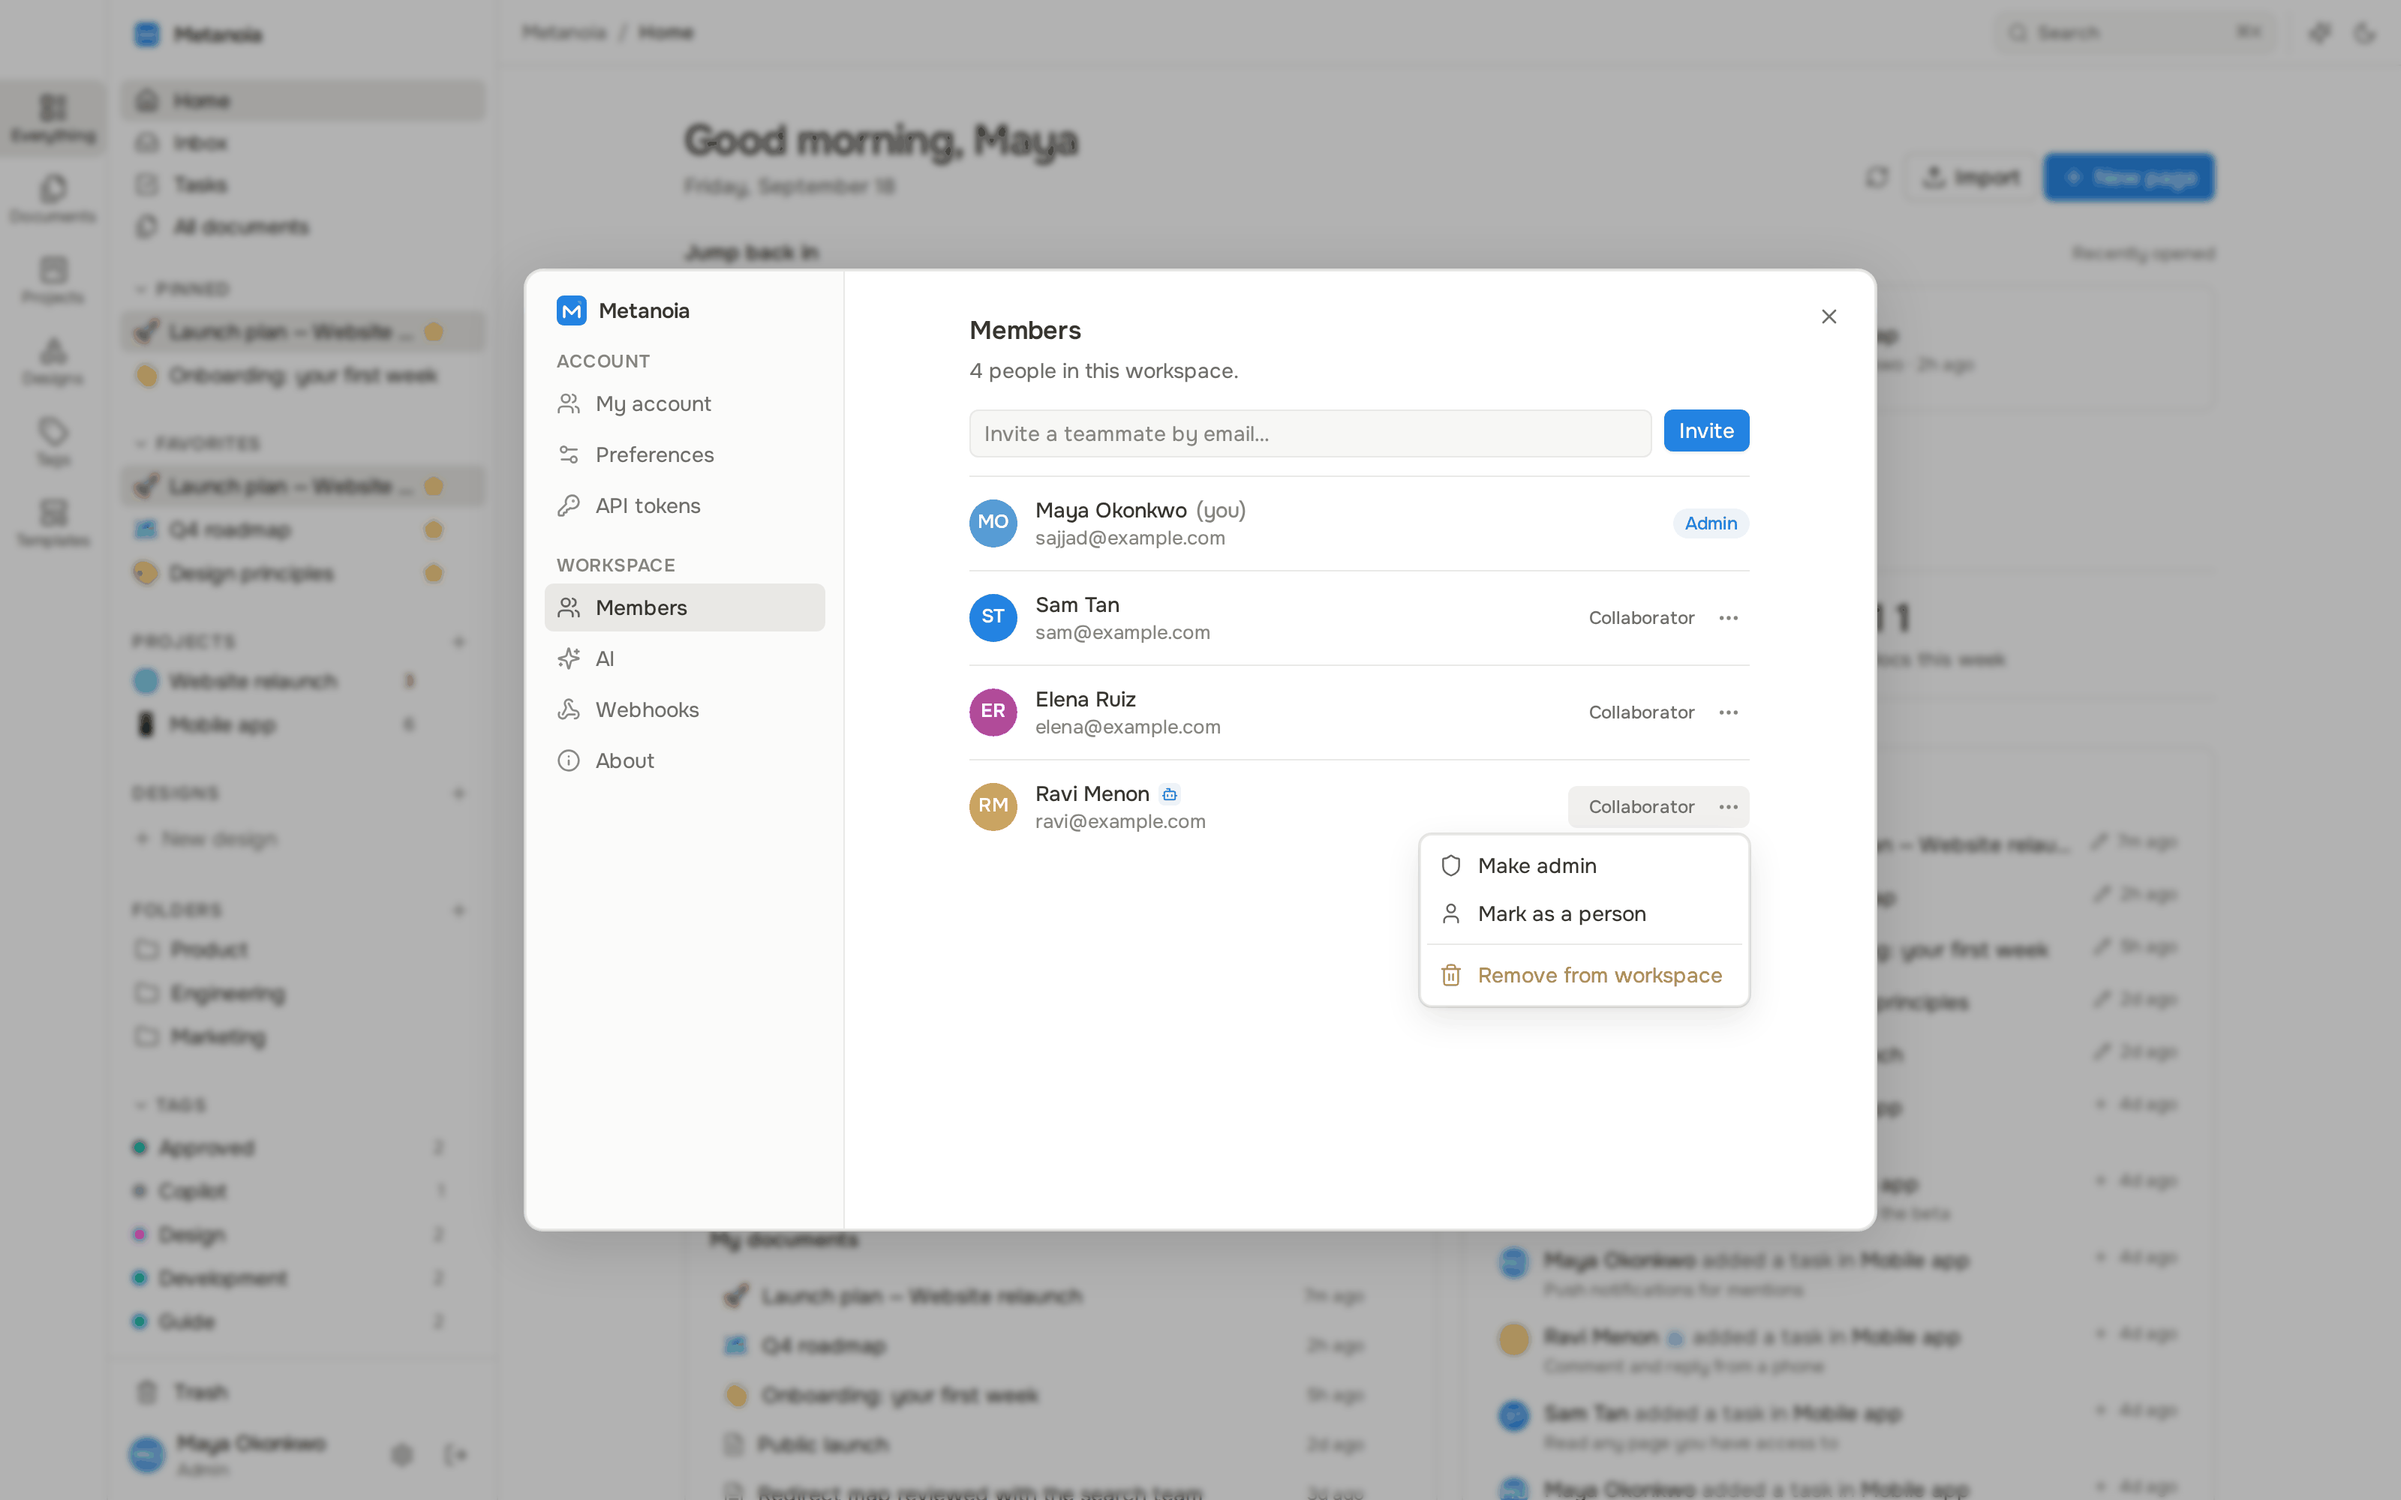
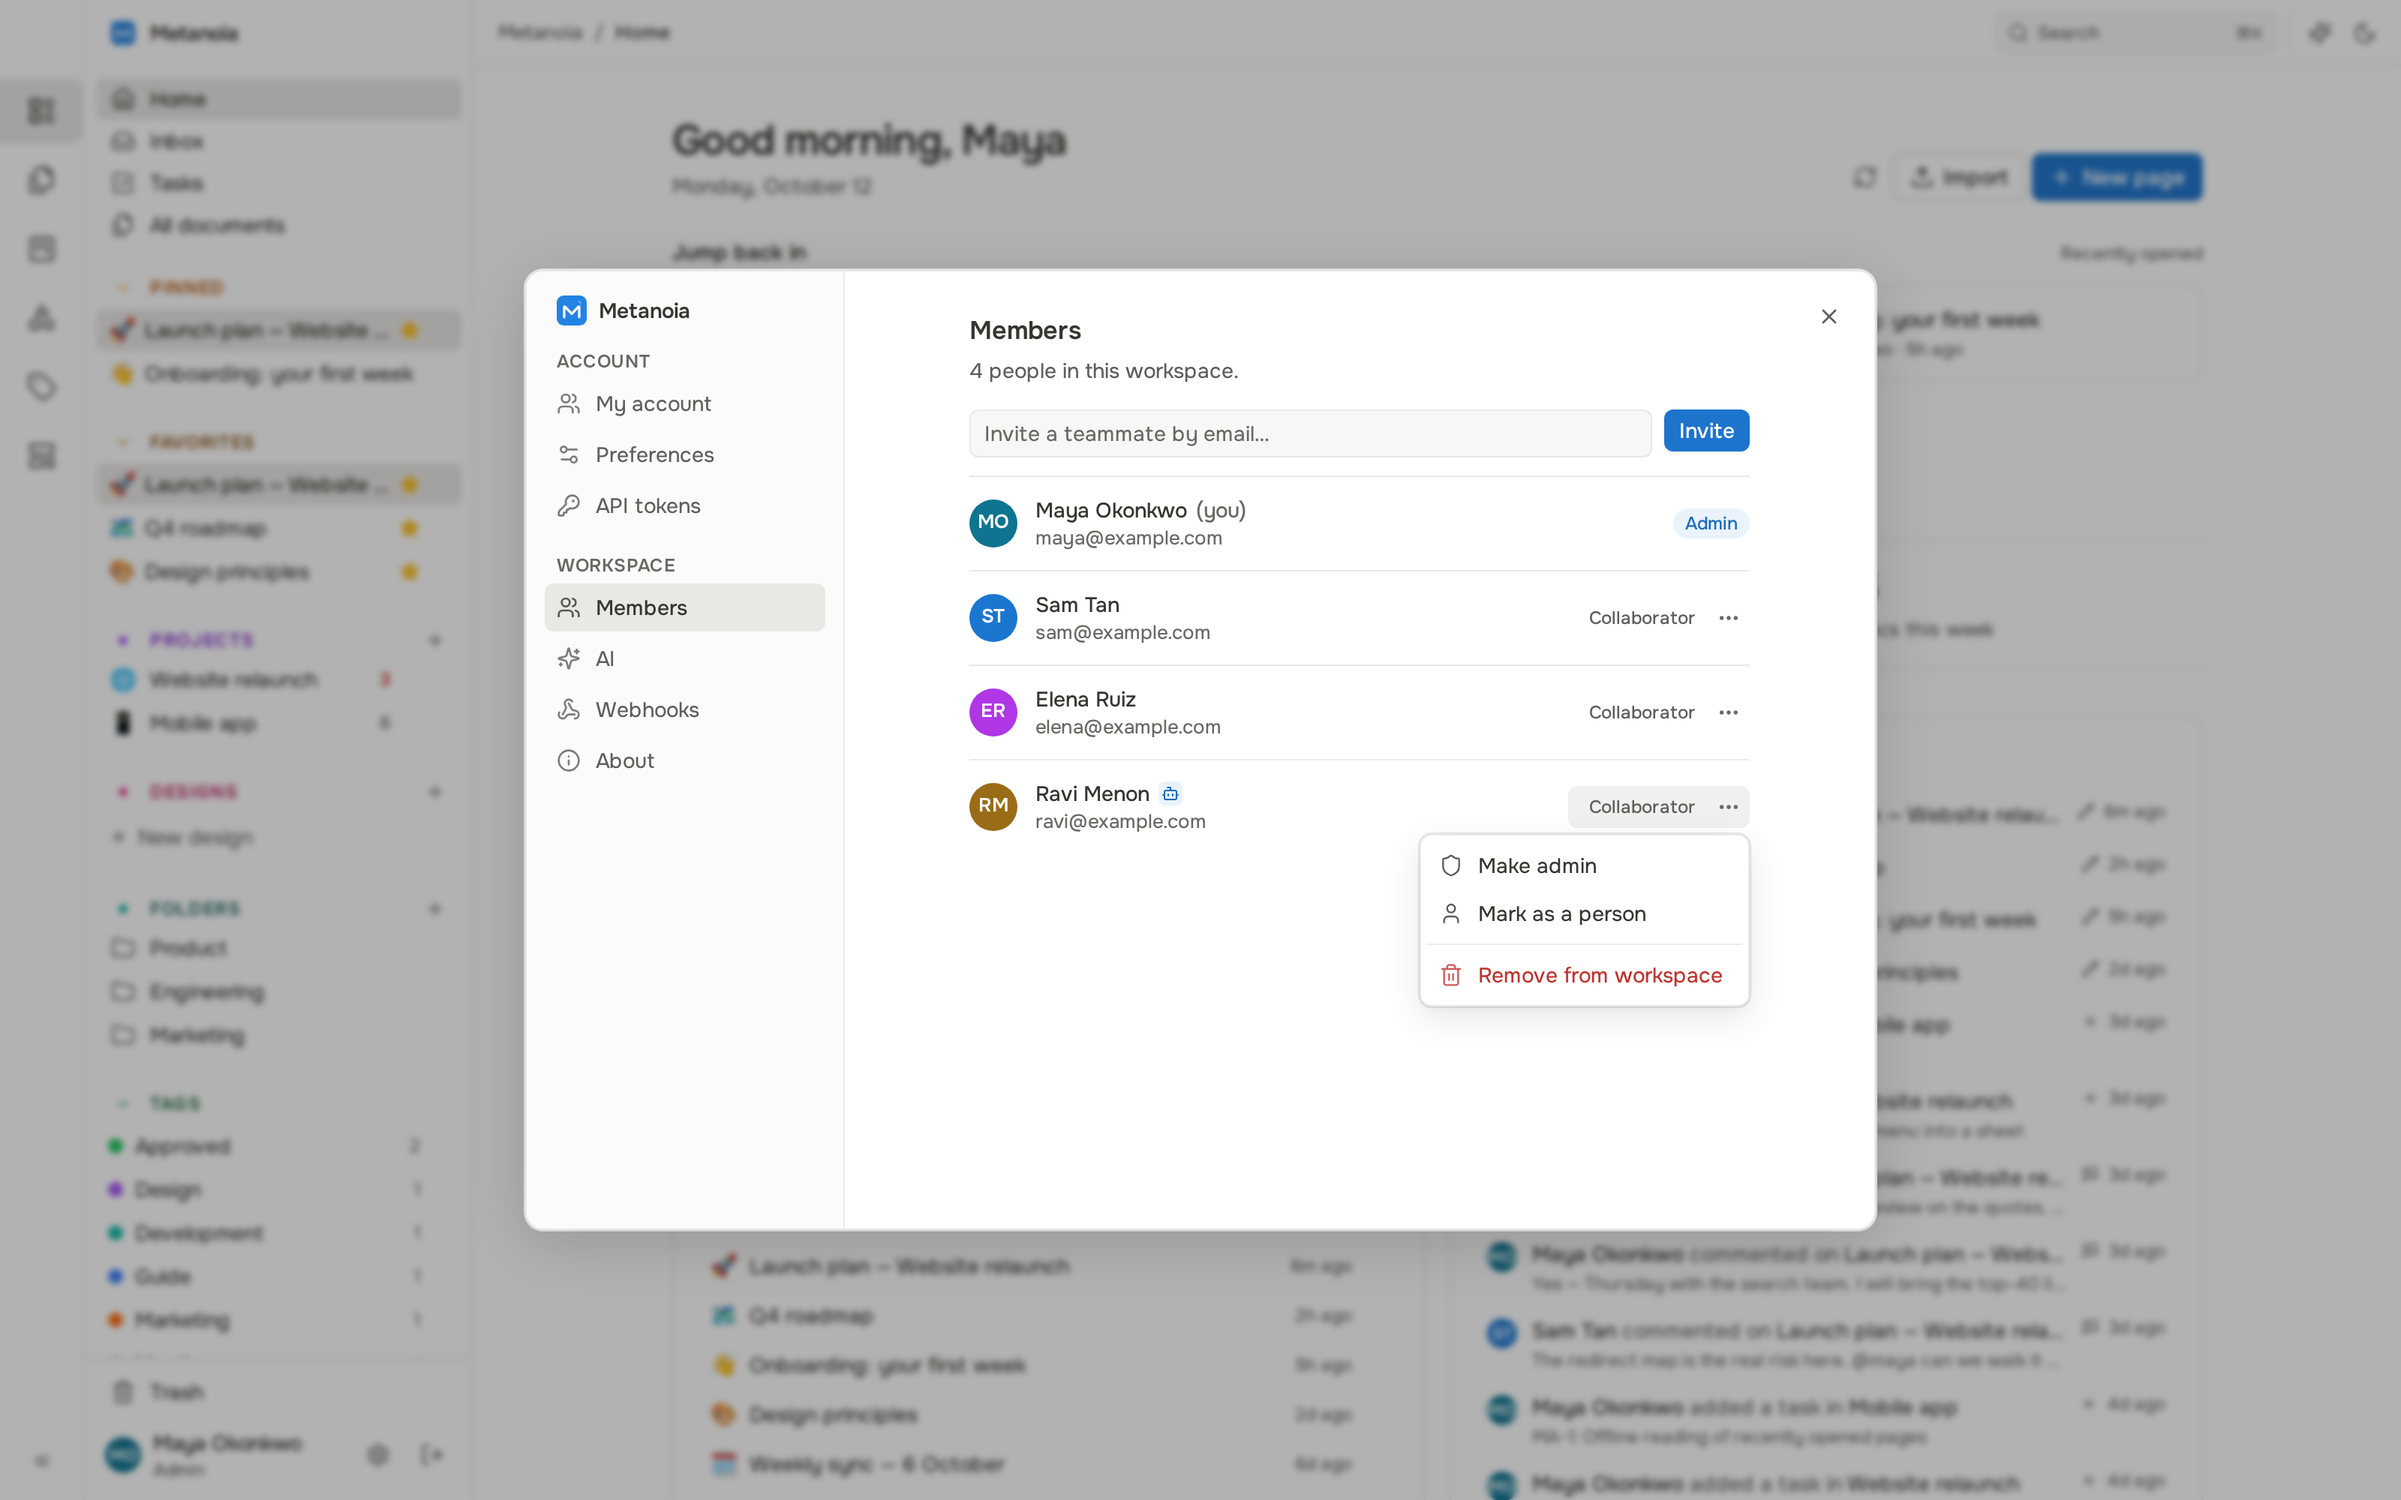
docs(readme): retake every screenshot, and keep the way to retake them
The README shots were from 18 September and the scripts that took them
were lost. Retaken from the current build in a fresh demo workspace,
and the pipeline is now in the repo: e2e/readme-shots/run.sh brings up
a throwaway stack on :8097, seeds it through the API (dates shifted to
the week it runs), backdates the bookkeeping, and writes all twelve
images to assets/screenshots.

diff --git a/README.md b/README.md
@@ -62,7 +62,7 @@ One image, one Postgres, one port. `docker compose up -d` and invite the team.
       <p align="center"><sub><b>Calendar</b> — the whole span, not just the due date. Drag an edge to move it; weeks grow to fit.</sub></p>
     </td>
     <td width="50%" valign="top">
-      <img src="assets/screenshots/inbox.png" alt="Inbox dialog listing an assignment and two comment mentions" />
+      <img src="assets/screenshots/inbox.png" alt="Inbox dialog listing a comment, a mention and an assignment" />
       <p align="center"><sub><b>Inbox</b> — mentions, assignments and replies, in-app, by email, and as Web Push when the tab is closed.</sub></p>
     </td>
   </tr>
